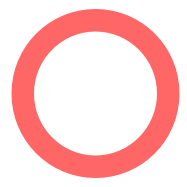
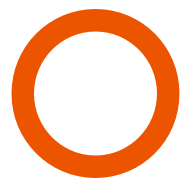
update to ver0.92
画像変更、タイトル背景追加、ビート君の場所を提示する演出追加

diff --git a/main.js b/main.js
@@ -5,7 +5,9 @@
 	FindBeatKun
 
 	TODO
-	- 長崎モード未実装
+	- 長崎モード（一応OK）
+	- ホームボタンをつくるのか？
+	- ポストシステム
 	- Appアイコンを作る
 
 	#横サイズでプレイする
@@ -48,11 +50,13 @@ var DEBUG_FLG = false;	//デバッグフラグ
 var ASSETS = {
 	//画像
 	image: {
+		'titleBG': './images/titleBG.jpg',		//タイトル背景
 		'camo1': './images/1_1.png',			//迷彩_1
 		'camo2': './images/2_1.png',			//迷彩_2
 		'camo3': './images/3_1.png',			//迷彩_3
 		'camo':  './images/all_camo.png',		//迷彩セット
 		'beat':  './images/beat_all.png',		//ビート君セット
+		'nagasaki': './images/nagasaki_all.png',	//長崎県セット
 		'correct': './images/correct.png',		//正解の〇
 		'incorrect': './images/incorrect.png',	//不正解の×
 		'nikukyu': './images/nikukyu.png',		//肉球（ページ遷移に使用）
@@ -101,8 +105,11 @@ phina.define("TitleScene", {
 		
 		console.log( SCREEN_X );
 
-		// 背景色
+		// 背景
 		this.backgroundColor = '#2d5030';
+		this.titleBG = Sprite('titleBG').addChildTo( this ).setPosition( this.gridX.center() , this.gridY.center() );
+		this.titleBG.setScale( SCREEN_X_RATIO,SCREEN_Y_RATIO  );
+		
 
 		//モード選択テキスト
 		this.modes = ['ビートくんモード', '長崎県モード'];
@@ -155,6 +162,8 @@ phina.define("TitleScene", {
 		this.modeUIRight.setInteractive( true );	//タッチを可能にする
 		this.modeUIRight.onpointstart = function() {
 			
+			SoundManager.play('start');	//選択サウンド
+
 			self.changeMode( 1 );
 		};
 
@@ -184,6 +193,8 @@ phina.define("TitleScene", {
 		this.modeUILeft.setInteractive( true );	//タッチを可能にする
 		this.modeUILeft.onpointstart = function() {
 			
+			SoundManager.play('start');	//選択サウンド
+
 			self.changeMode( 1 );
 		};
 
@@ -202,6 +213,9 @@ phina.define("TitleScene", {
 		
 		//"はじめる"ボタンが押されたら（ iPhone/iPad/PC全部対応しているはず.. ）
 		this.startButton.onpointstart = function() {
+
+			SoundManager.play('start');	//選択サウンド
+
 			//メインシーンに遷移
 			self.exit( "main" ,{ mode: self.modeIndex } );
 		};
@@ -315,8 +329,18 @@ phina.define("MainScene", {
 		.setPosition( this.gridX.center(), this.gridY.center() )
 		.hide();
 		
-		//ビート君
-		this.beat = Sprite('beat',187,187).addChildTo( this ).setPosition( Random.randfloat( 50, 900 ), Random.randfloat( 50, 440 )).hide();
+
+		//ビート君（or 長崎県）
+		if( this.modeIndex === 0 )	//モードによって画像を変える
+		{
+			//ビート君
+			this.beat = Sprite('beat',187,187).addChildTo( this ).setPosition( Random.randfloat( SCREEN_X * 0.3, SCREEN_X * 0.7 ), Random.randfloat( SCREEN_Y * 0.4, SCREEN_Y * 0.7 )).hide();
+		}
+		else
+		{
+			//長崎県
+			this.beat = Sprite('nagasaki',187,187).addChildTo( this ).setPosition( Random.randfloat( SCREEN_X * 0.3, SCREEN_X * 0.7 ), Random.randfloat( SCREEN_Y * 0.4, SCREEN_Y * 0.7 )).hide();
+		}
 		this.beat.frameIndex = 0;
 		this.b_ratio = ( SCREEN_X * 0.12 ) / 187;			//ビート君の画像のサイズで割って係数を出す
 		this.beat.setScale( this.b_ratio,this.b_ratio );	//画面サイズに調整する
@@ -326,9 +350,16 @@ phina.define("MainScene", {
 		const TOUCH_FALSE 	= 2;
 		this.beatTouchFlg = TOUCH_WAITING;
 
-		//ビート君をタッチしたときに表示されるテキスト（使用しない）
-		this.beatTouchLabel = Label( "見つかっちゃった！" ).addChildTo( this );
-		this.beatTouchLabel.fill = 'white';
+		//間違った場合、正解のビート君の場所を提示するテキスト
+		this.beatTouchLabel = Label({
+			text: "ここにいたよ！",
+			fontFamily: 'DelaGothicOne',
+			fontSize: SCREEN_X * 0.03,
+			fill: 'white',
+			stroke: "#000000ff",
+			strokeWidth : SCREEN_X * 0.004,
+
+		}).addChildTo( this );
 		this.beatTouchLabel.hide();
 		this.beatTouchLabel.tweener.clear();
 
@@ -513,9 +544,6 @@ phina.define("MainScene", {
 					})
 				.play();
 
-				self.beatTouchLabel.x = self.beat.x + 500;
-				self.beatTouchLabel.y = self.beat.y - 50;
-				
 				/*
 				正解〇だけにする
 				self.beatTouchLabel.show();
@@ -547,6 +575,8 @@ phina.define("MainScene", {
 				// e.target が beatでなければ背景をタッチ
 				if ( e.target !== self.beat )
 				{
+					SoundManager.play('incorrect');	//不正解サウンド
+
 					self.beatTouchFlg = TOUCH_FALSE;	//ビート君タッチフラグ失敗
 
 					self.incorrect.x = e.pointer.x;
@@ -561,13 +591,31 @@ phina.define("MainScene", {
 
 					},20,"swing" )
 					.call( function(){
+
+						//正解のビート君の場所を〇で表示する
+						self.correct.x = self.beat.x;
+						self.correct.y = self.beat.y;
+						self.correct.setScale( self.beat.scaleX,self.beat.scaleY );
+						self.correct.show();
+
+						//"ここですよ！"ラベル アニメーション
+						let a = self.calculateBeatTouchLabelPos();
+						self.beatTouchLabel.show();
+						self.beatTouchLabel.tweener
+							.to({
+								x: a.toX,
+								y: a.toY,
+
+							},200,"swing")
+						.play();
+						
 						self.incorrect.tweener
 							.to({
 								scaleX: self.beat.scaleX,
 								scaleY: self.beat.scaleY,
 
 							},20,"swing" )
-							.wait( 500 )
+							.wait( 1500 )
 							.call( function(){
 								//肉球アニメーション
 								self.nikyuAnimation();
@@ -580,7 +628,6 @@ phina.define("MainScene", {
       			}
 			}
 		};
-
 
 		this.showTutorial();	//チュートリアル画面表示
 
@@ -732,8 +779,10 @@ phina.define("MainScene", {
 		}).addChildTo( overlay ).setPosition( 0 , (SCREEN_Y * 0.25) );
 		button.fontSize = button.width * 0.18;	//フォントサイズ 調整
 		
-		// OKを押したらチュートリアルを閉じる
+		// "はじめる"を押したらチュートリアルを閉じる
 		button.onpointstart = function() {
+			SoundManager.play('start');	//選択サウンド
+			
 			overlay.remove();
 
 			self.state = 'countdown'; // カウントダウンへ移行
@@ -792,6 +841,7 @@ phina.define("MainScene", {
 	*/
 	nextBeatkun: function() {
 
+		//表示されていたラベルを隠す
 		this.beatTouchLabel.hide();
 		this.correct.hide();
 
@@ -917,6 +967,73 @@ phina.define("MainScene", {
 			
 	}, //end calculatePlusTimeByTime()
 
+	/*
+		@class calculateBeatTouchLabelPos()
+		#正解のビート君の位置にラベルを配置する際の座標を計算
+
+	*/
+	calculateBeatTouchLabelPos: function() {
+
+		if ( this.beat.x >= this.gridX.center() && this.beat.y < this.gridY.center() ) {
+			
+			// 右上
+			let to   = this.beat.x;
+			let from = this.beat.x - (SCREEN_X * 0.05);
+
+			this.beatTouchLabel.x = from;
+			this.beatTouchLabel.y = this.beat.y + (SCREEN_Y * 0.15);
+
+			return{
+				toX: to,
+				toY: this.beatTouchLabel.y,
+			};
+
+		} else if ( this.beat.x < this.gridX.center() && this.beat.y < this.gridY.center() ) {
+			
+			// 左上
+			let to   = this.beat.x;
+			let from = this.beat.x + (SCREEN_X * 0.05);
+
+			this.beatTouchLabel.x = from;
+			this.beatTouchLabel.y = this.beat.y + (SCREEN_Y * 0.15);
+			
+			return{
+				toX: to,
+				toY: this.beatTouchLabel.y,
+			};
+
+		} else if ( this.beat.x < this.gridX.center() && this.beat.y >= this.gridY.center() ) {
+			
+			// 左下
+			let to   = this.beat.x;
+			let from = this.beat.x + (SCREEN_X * 0.05);
+
+			this.beatTouchLabel.x = from;
+			this.beatTouchLabel.y = this.beat.y - (SCREEN_Y * 0.15);
+
+			return{
+				toX: to,
+				toY: this.beatTouchLabel.y,
+			};
+
+		} else {
+			
+			// 右下
+			let to   = this.beat.x;
+			let from = this.beat.x - (SCREEN_X * 0.05);
+
+			this.beatTouchLabel.x = from;
+			this.beatTouchLabel.y = this.beat.y - (SCREEN_Y * 0.15);
+
+			return{
+				toX: to,
+				toY: this.beatTouchLabel.y,
+			};
+
+		}
+			
+	}, //end calculateBeatTouchLabelPos()
+
 
 }); //end MainScene
 
@@ -943,7 +1060,7 @@ phina.define("ResultScene", {
 		let self = this;	//参照用
 
 		// 背景色
-		this.backgroundColor = '#58430c';
+		this.backgroundColor = '#fbfbf9';
 
 		//モードUIラベル（モードごとにテキスト変化）
 		this.modeText = "ビートくんをさがせ";
@@ -1024,8 +1141,8 @@ phina.define("ResultScene", {
 			fontFamily: 'DelaGothicOne',
 			fontSize: SCREEN_X * 0.04,
 			fill: 'white',
-			stroke: "#000000ff",
-			strokeWidth : SCREEN_X * 0.0048,
+			stroke: "#002955",
+			strokeWidth : SCREEN_X * 0.006,
 
 		}).addChildTo( this ).setPosition( SCREEN_X * 0.5 , SCREEN_Y * 0.6 ).setScale( 2.0,2.0 );
 		this.resultTextLabel.hide();
@@ -1108,8 +1225,8 @@ phina.define("ResultScene", {
 		this.oneMoreButton = Button({
 			text : 'もう１回',
 			fontFamily: 'DelaGothicOne',
-			fill : 'white',
-			fontColor: '#000000',
+			fill : '#2d5030',
+			fontColor: '#fbfbf9',
 			width: 200 * SCREEN_X_RATIO,
 			height: 70 * SCREEN_Y_RATIO,
 	
@@ -1126,8 +1243,8 @@ phina.define("ResultScene", {
 		this.postButton = Button({
 			text : 'ポストする',
 			fontFamily: 'DelaGothicOne',
-			fill : 'white',
-			fontColor: '#000000',
+			fill : '#2d5030',
+			fontColor: '#fbfbf9',
 			width: 200 * SCREEN_X_RATIO,
 			height: 70 * SCREEN_Y_RATIO,
 	
